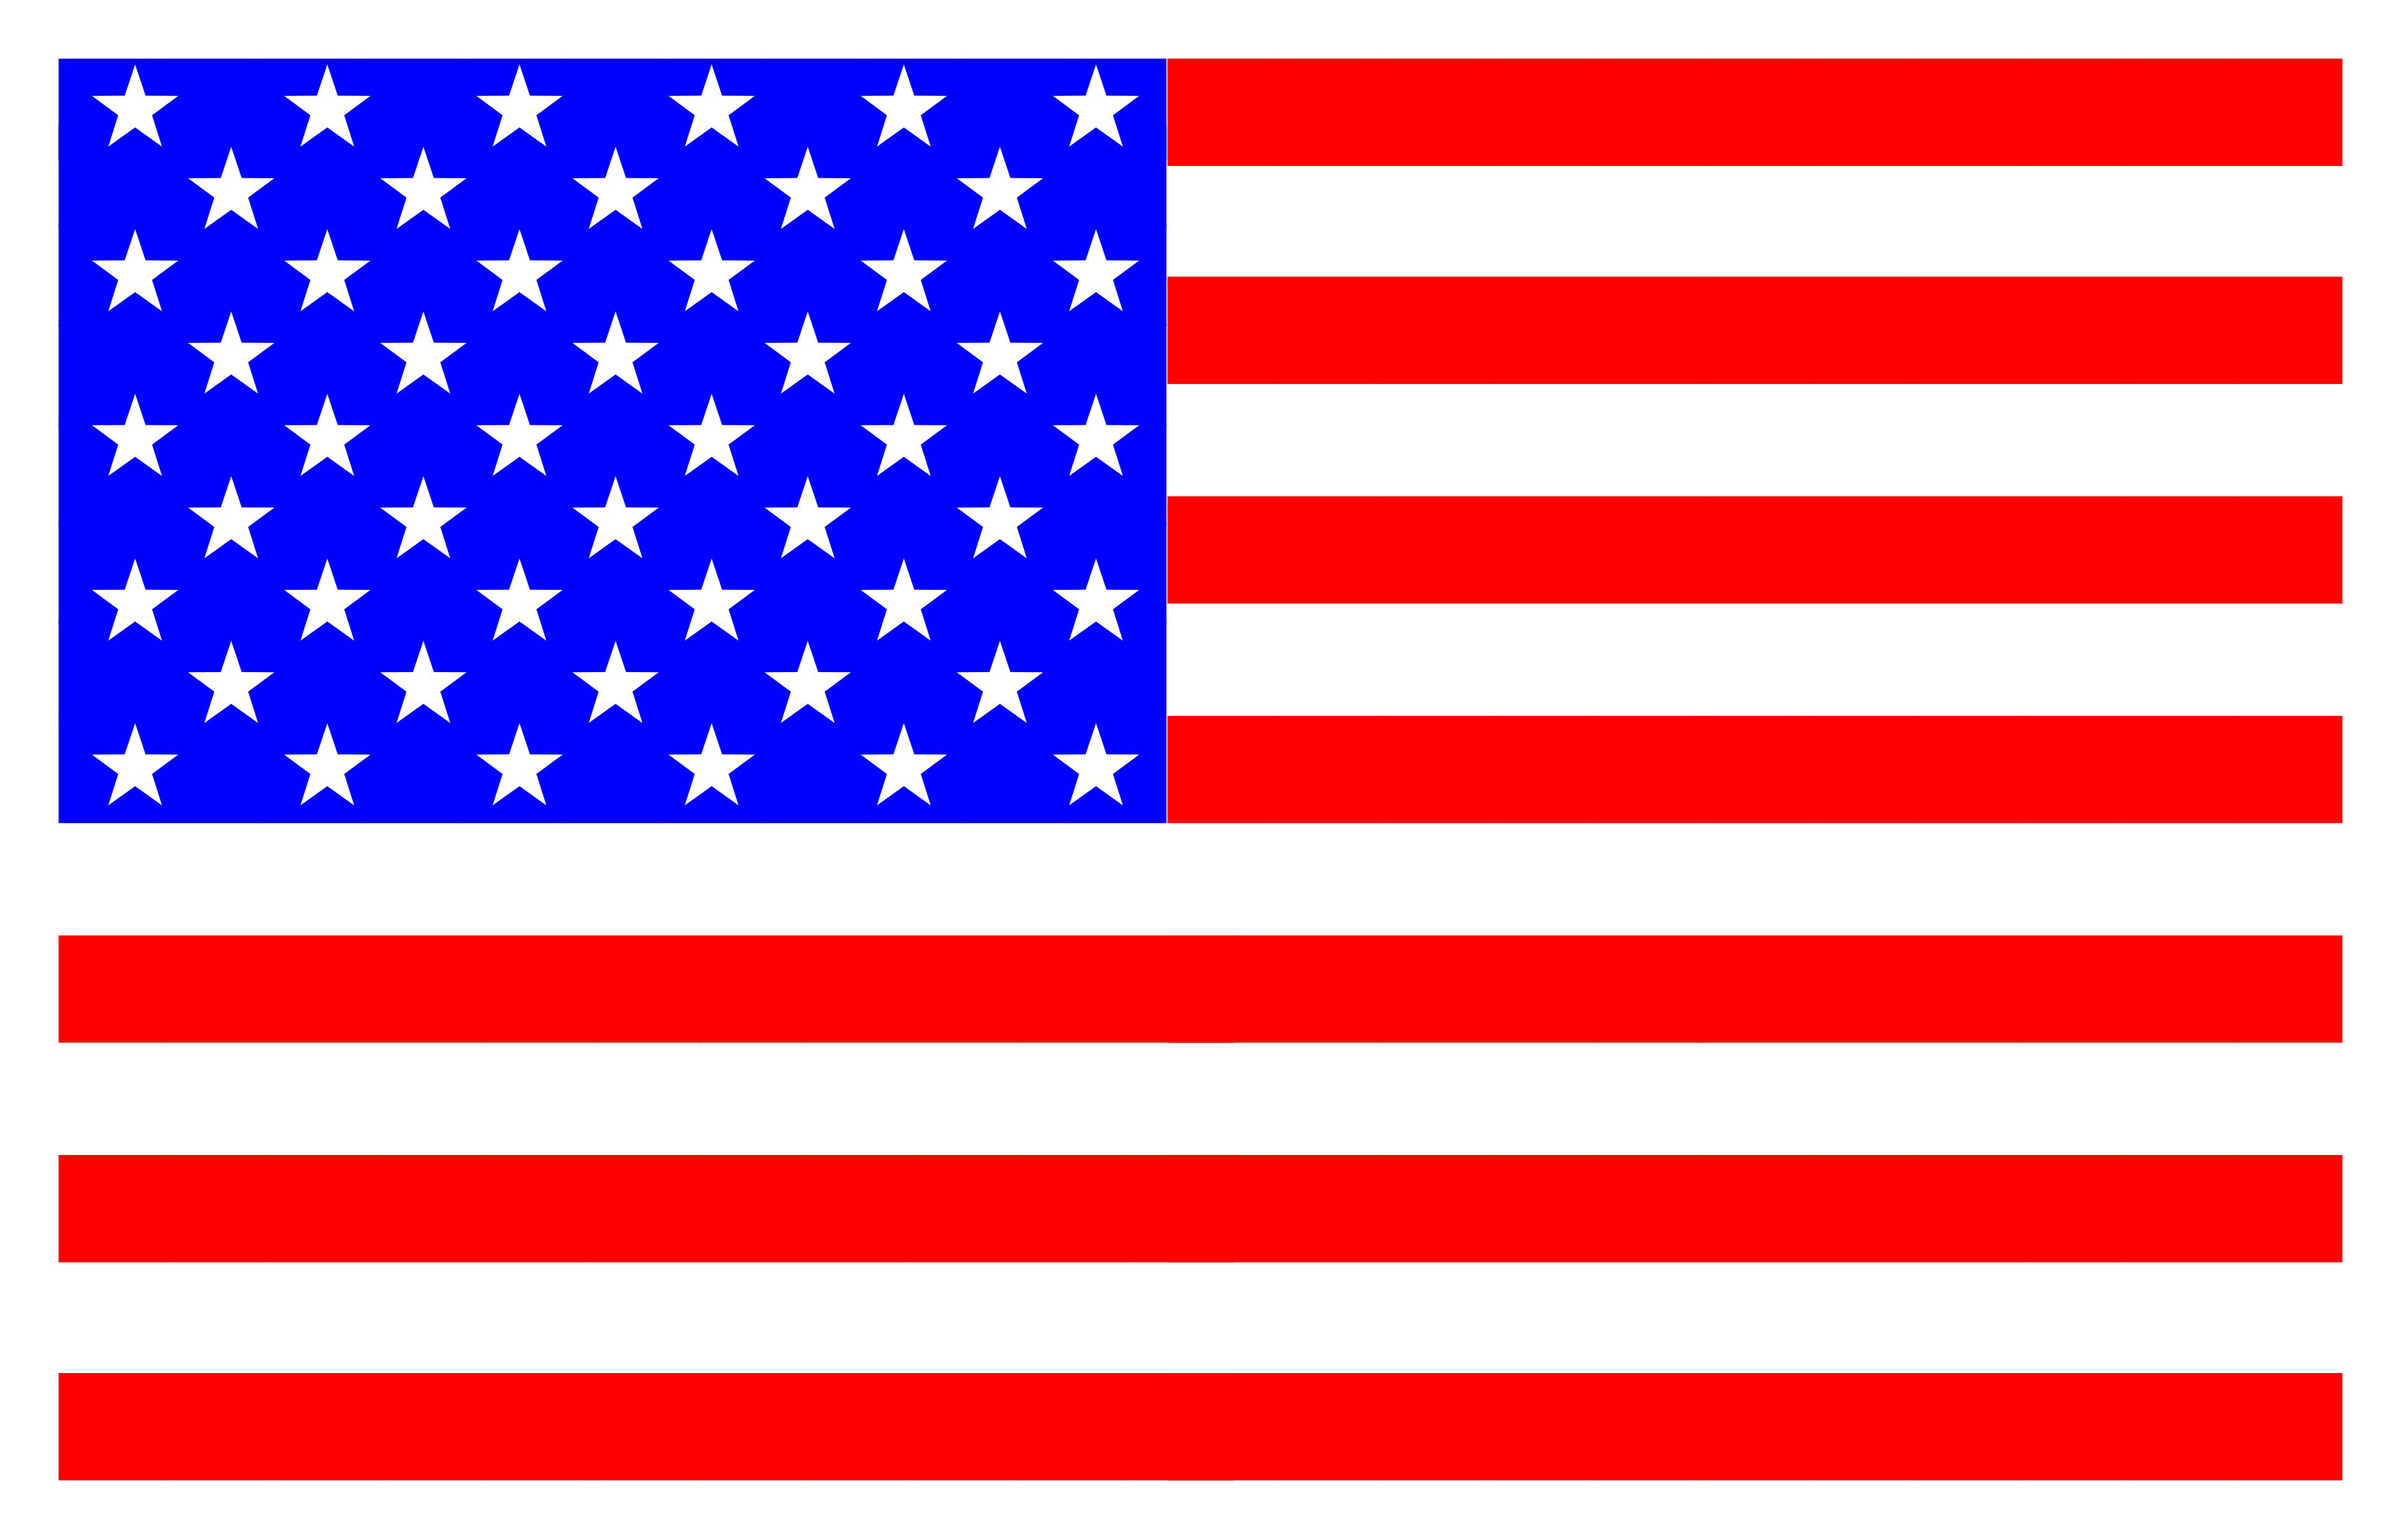
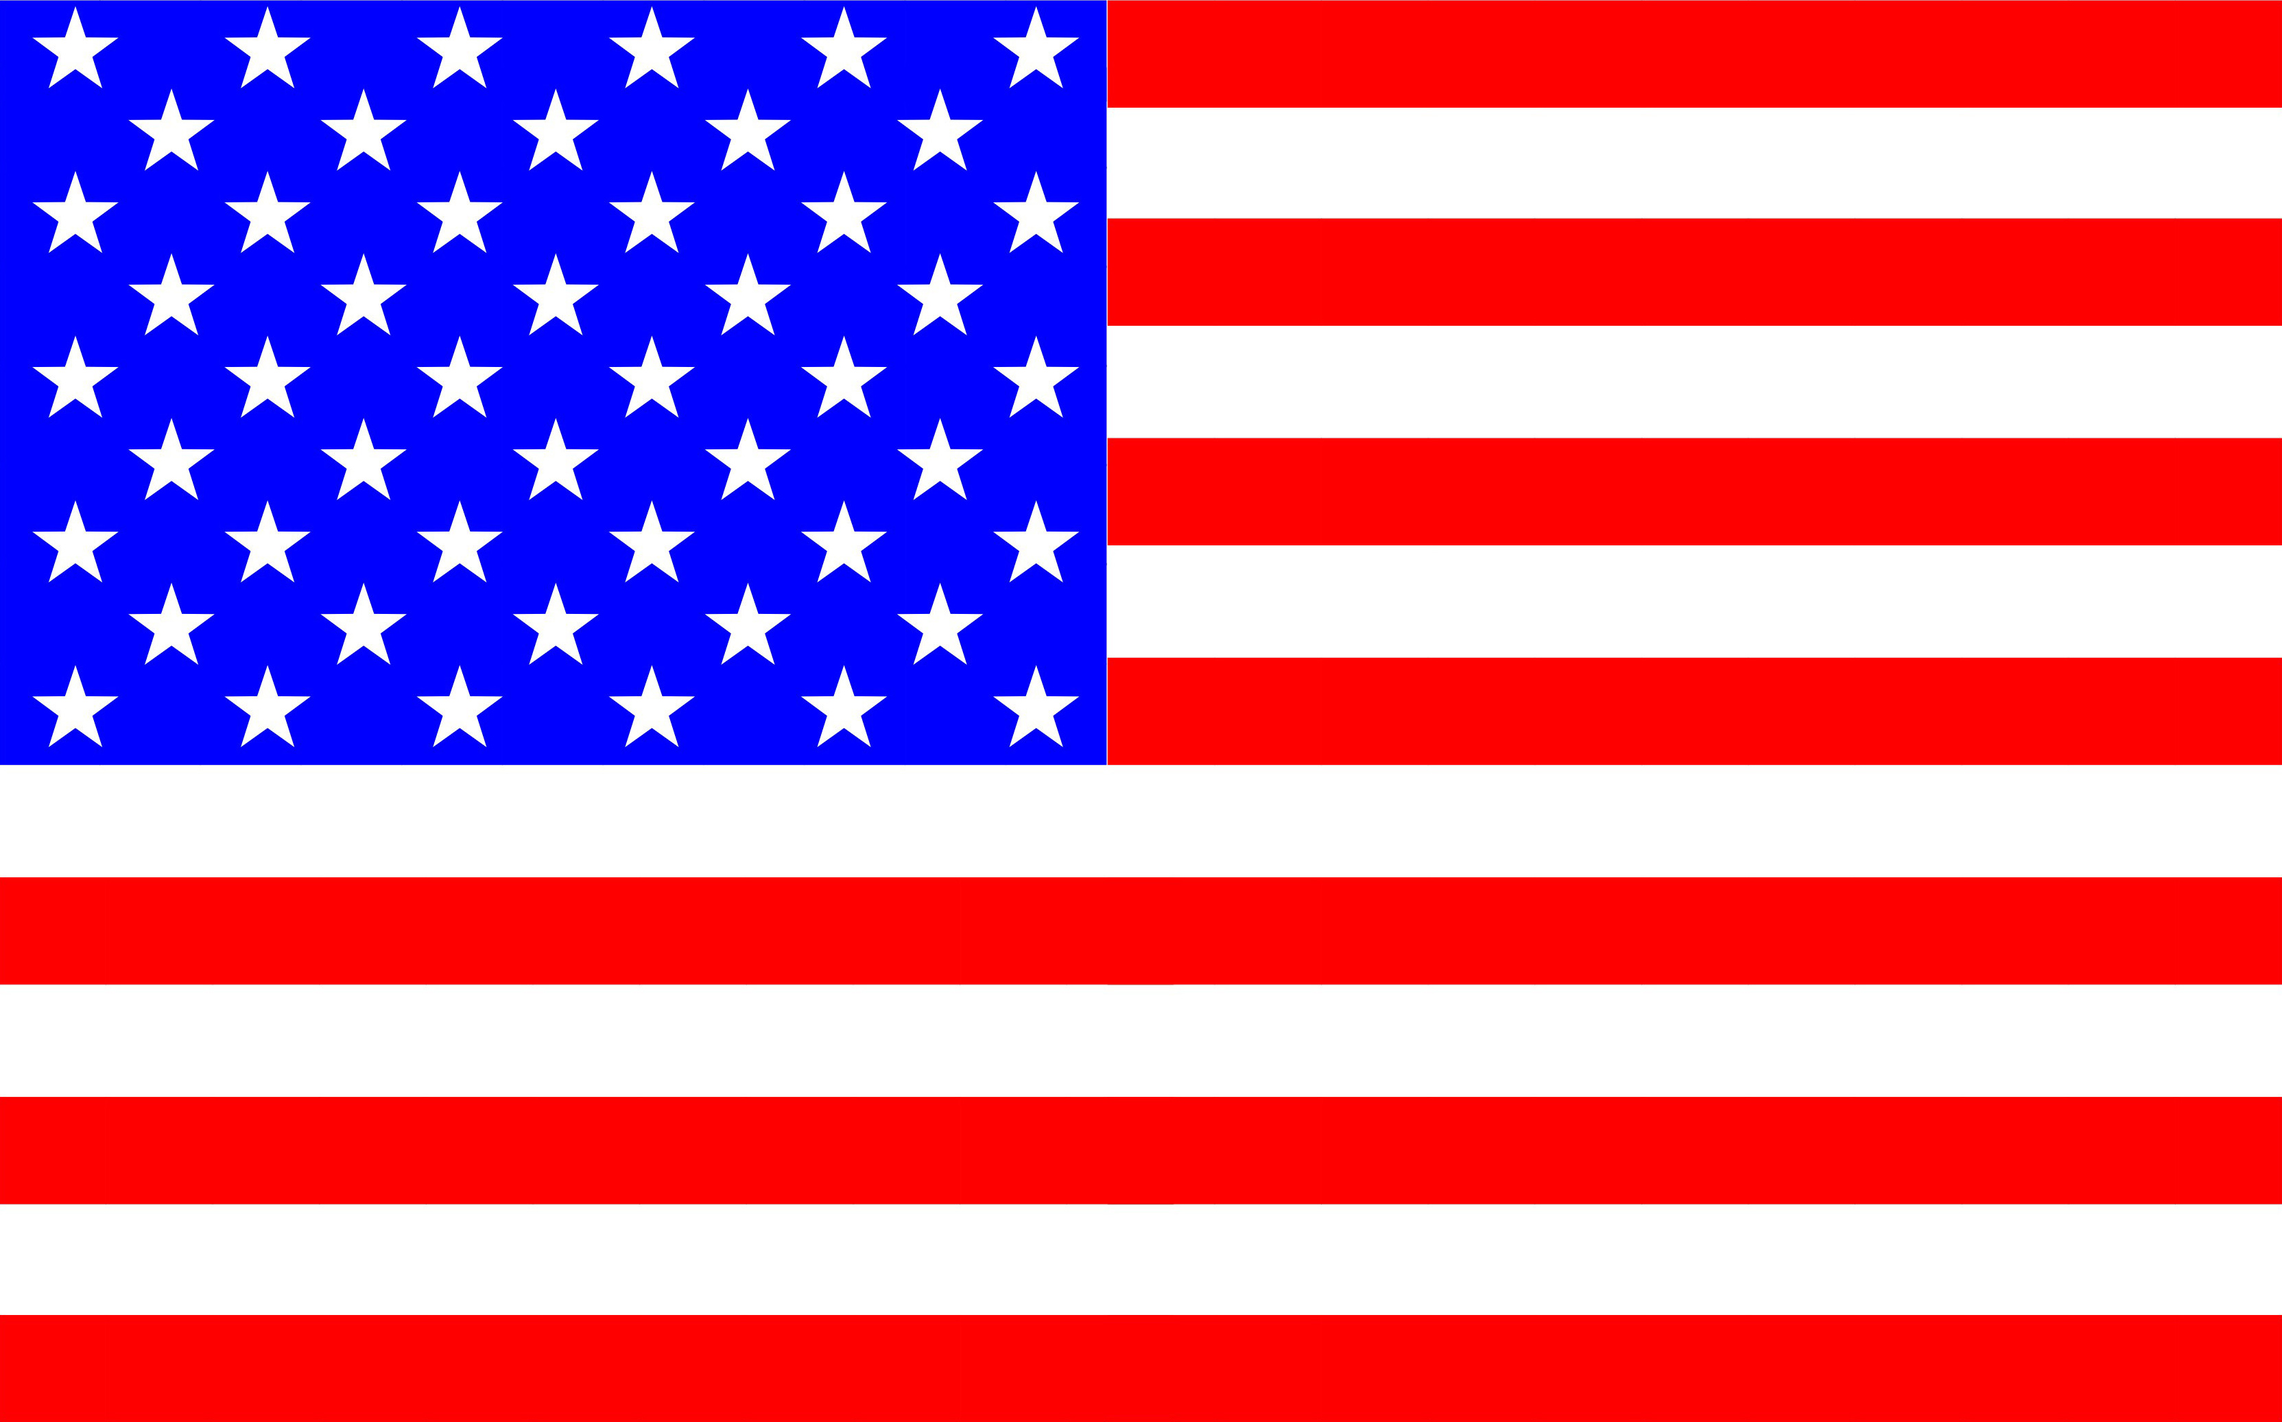
updating positioning

diff --git a/app.js b/app.js
@@ -30,7 +30,7 @@ app.post('/image', function(req, res){
   var tempName = uuid.v1();
   download(postData, tempName + '.jpg', function(){
     var file = tempName + '.jpg';
-    child = exec('composite -gravity center flag.jpg[390x^] -geometry +90-15 ' + file + '[390x] -dissolve 30 ' + file,
+    child = exec('composite -gravity center flag.jpg[390x^] -geometry +115-0 ' + file + '[390x] -dissolve 30 ' + file,
       function (error, stdout, stderr) {
         var filename = path.basename(file);
         var mimetype = mime.lookup(file);
